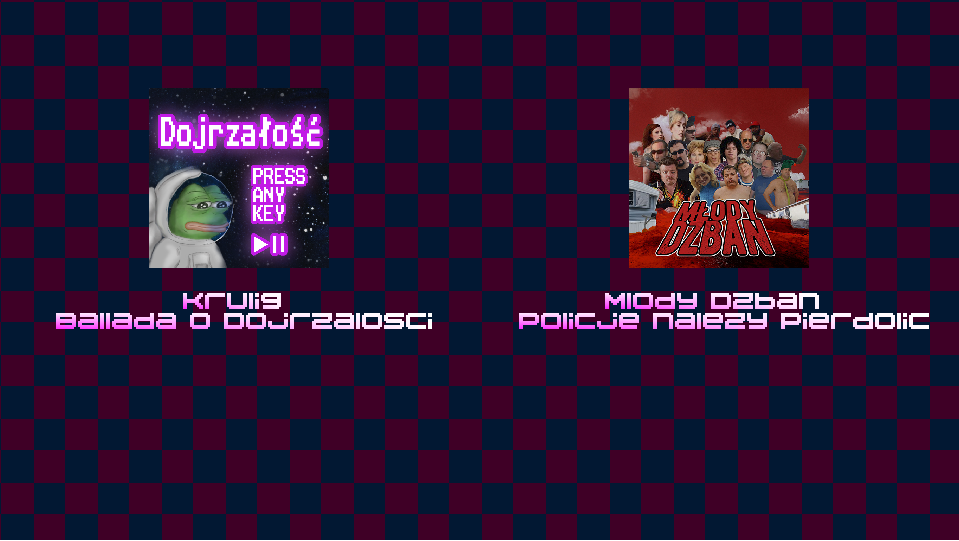
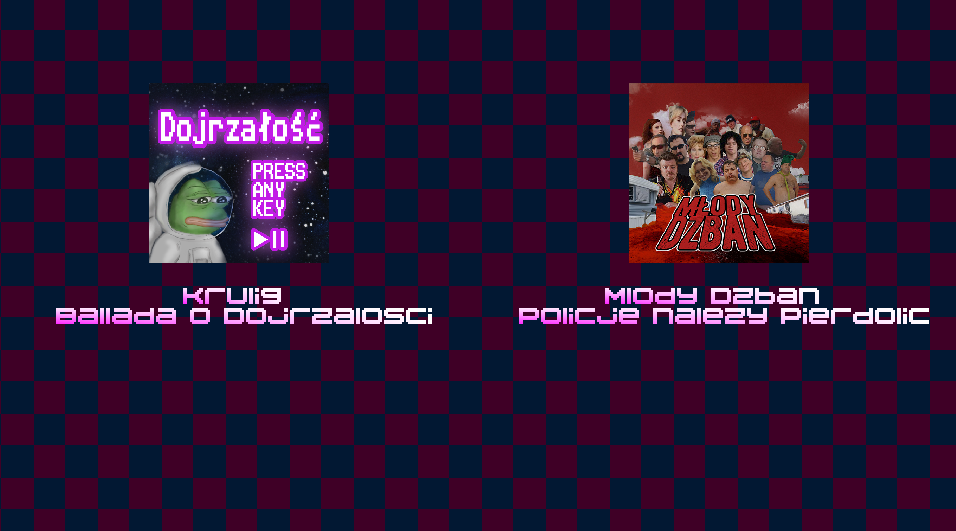
Improve preview

Changed region(s): [[0.0, 0.0, 1.0, 1.0], [0.455, 0.3917, 0.6067, 0.4218], [0.9707, 0.3917, 1.0, 0.4218]]

diff --git a/index.html b/index.html
@@ -12,7 +12,7 @@
     <meta property="og:type" content="article"/>
     <meta property="og:title" content="ZAGRAJ W TELEDYSK - NAJBA MJUSIK"/>
     <meta property="og:description" content="Zamiast biernie oglądać pokieruj losami teledysku!"/>
-    <meta property="og:image" content=http://raw.githubusercontent.com/najbamjusik/najbamjusik.github.io/master/asset_preview.png/>
+    <meta property="og:image" content="http://raw.githubusercontent.com/najbamjusik/najbamjusik.github.io/master/asset_preview.png"/>
     <meta property="fb:app_id" content=""/>
     <style>
         body {
